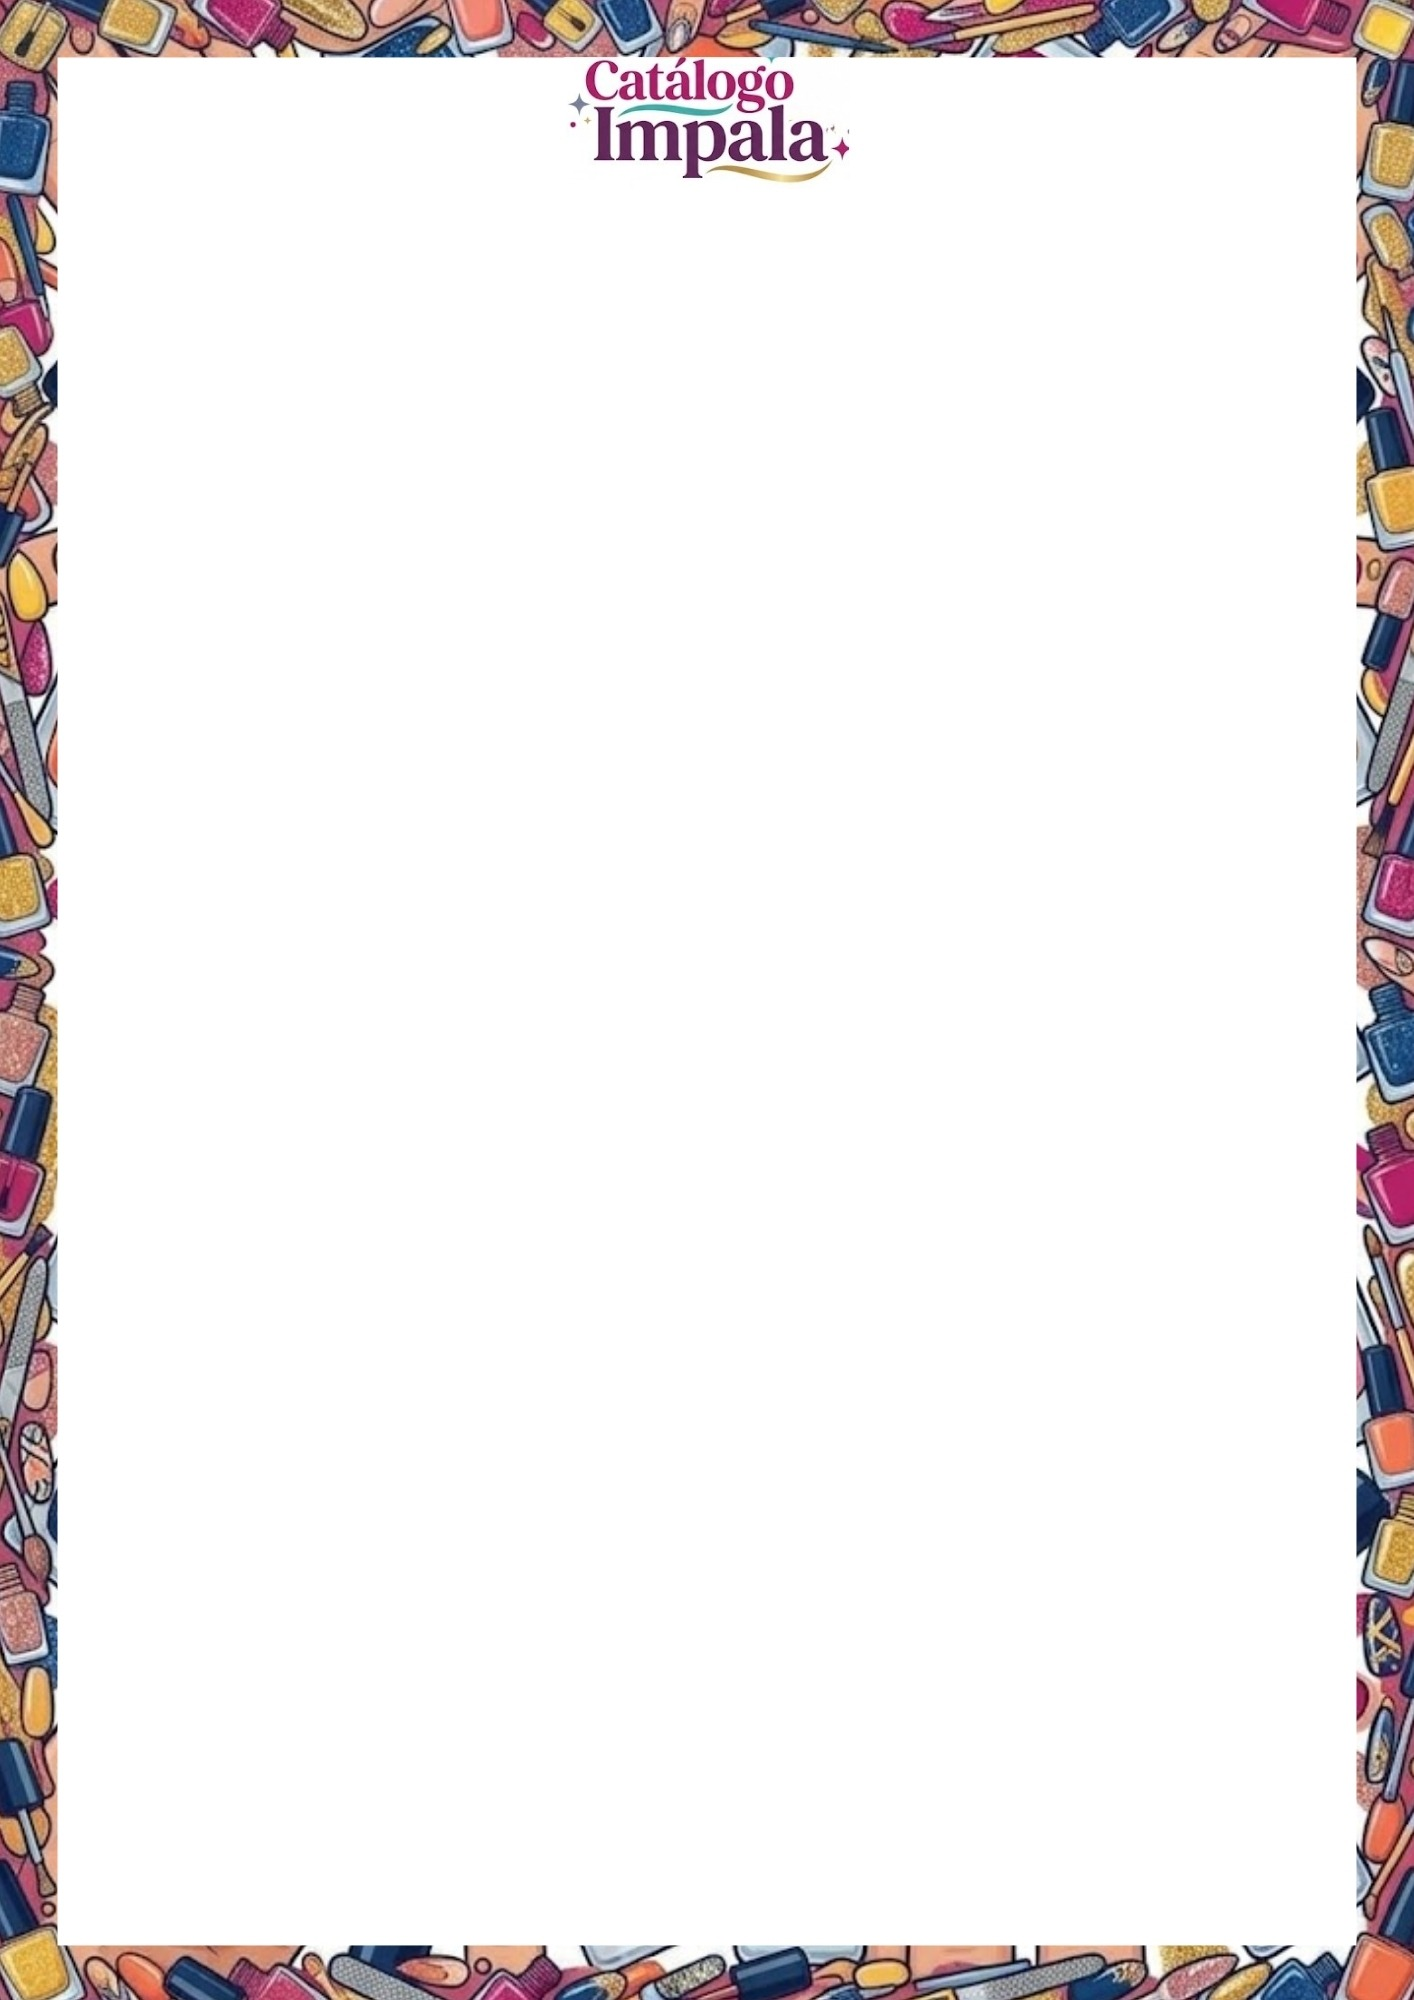
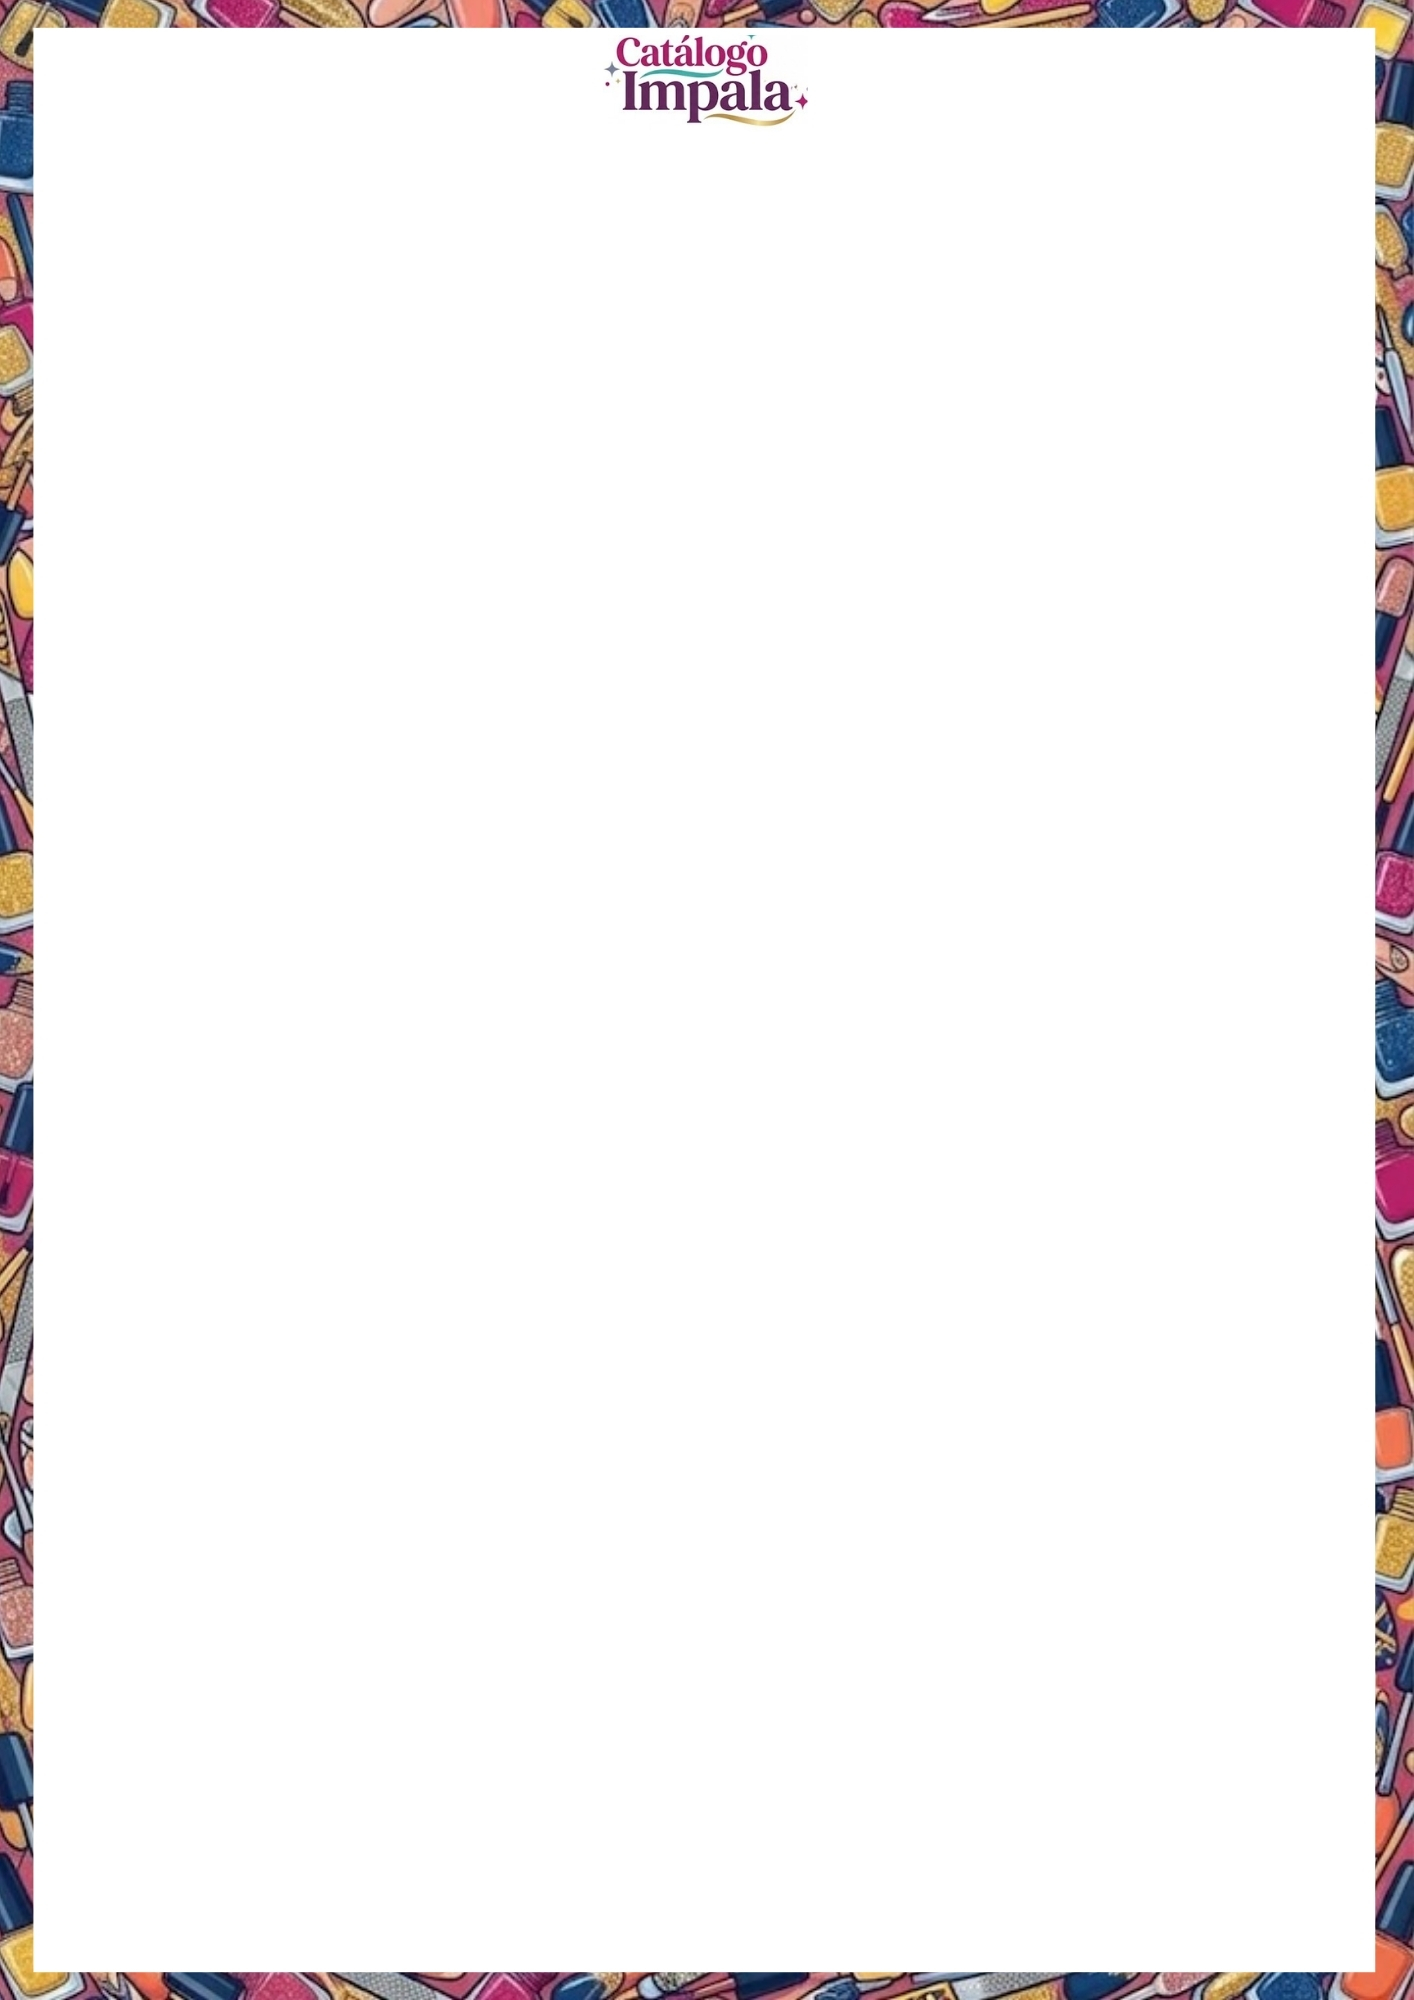
Add files via upload

Changed region(s): [[0.0, 0.0, 1.0, 1.0]]

diff --git a/exportar-carrinho.js b/exportar-carrinho.js
@@ -18,10 +18,13 @@ const EXPORT_TEMPLATE_LARGURA = 1414;
 const EXPORT_TEMPLATE_ALTURA = 2000;
 // Área em branco da imagem-modelo onde a grade de cartões pode ser
 // desenhada sem cobrir a moldura (medida direto no arquivo do Leonardo).
-const EXPORT_TEMPLATE_AREA = { esq: 60, dir: 1360, topo: 215, base: 1940 };
+// Atualizado pro molde novo, com o cabeçalho mais enxuto (logo termina
+// por volta de y:127, bem antes do y:190 do molde antigo) — é esse
+// espaço a mais que abriu lugar pra 4ª fileira de cartões.
+const EXPORT_TEMPLATE_AREA = { esq: 40, dir: 1368, topo: 140, base: 1960 };
 // Altura reservada no topo pra a foto + nome do vendedor, do lado
 // esquerdo da logo "Catálogo Impala" (mesma altura do texto da logo).
-const EXPORT_VENDEDOR_FOTO_Y_CENTRO = 125;
+const EXPORT_VENDEDOR_FOTO_Y_CENTRO = 80;
 const EXPORT_VENDEDOR_FOTO_DIAMETRO = 100;
 const EXPORT_VENDEDOR_INDENT = 22;
 // A altura de cada cartão da Imagem é calculada a partir do conteúdo
@@ -37,6 +40,11 @@ const EXPORT_GRADE_GAP_CODIGO_BADGE = 14;
 const EXPORT_GRADE_LINHA_ALTURA_NOME = 18;
 const EXPORT_GRADE_MAX_LINHAS_NOME = 2;
 const EXPORT_GRADE_ALTURA_BADGE = 52;
+// A foto do cartão fica um pouco mais baixa que larga (em vez de
+// quadrada) — é o "encolher o cartão" que abre espaço pra 4ª fileira
+// (16 itens por imagem em vez de 12), sem precisar mexer no tamanho dos
+// cartões nem no espaço entre eles.
+const EXPORT_GRADE_FATOR_ALTURA_FOTO = 0.93;
 // Cor da etiqueta de preço nos cartões — tom roxo/vinho do próprio logo
 // do Impala (puxado direto da palavra "Impala" na imagem-modelo), com o
 // mesmo brilho dourado suave que já era usado na foto do vendedor no app.
@@ -311,7 +319,7 @@ function exportarCalcularGradePng() {
   const alturaUtil = areaBase - areaTopo;
   const larguraCard = (larguraUtil - gutterH * (colunas - 1)) / colunas;
   const larguraFoto = larguraCard - padCard * 2;
-  const alturaImagem = larguraFoto; // foto quadrada
+  const alturaImagem = larguraFoto * EXPORT_GRADE_FATOR_ALTURA_FOTO;
 
   // Altura do cartão = só o que o conteúdo realmente precisa (foto + nome
   // de até 2 linhas + código + etiqueta de preço), igual ao PDF — em vez
@@ -336,23 +344,20 @@ function exportarCalcularGradePng() {
 // A Imagem (PNG) é uma folha de tamanho fixo (ao contrário do PDF, que só
 // usa quantas páginas precisar), então quando o carrinho tem menos itens
 // do que cabe na grade, sobra espaço em branco no final. Em vez de deixar
-// essa sobra toda embaixo, espalha ela como respiro extra entre as
-// fileiras (e centraliza o bloco inteiro verticalmente) — só pra Imagem,
-// o PDF continua do jeito que já era.
+// essa sobra toda embaixo (carrinho "encostado" no topo) ou esticar o
+// espaço entre as fileiras (o que deixava um vão enorme e esquisito entre
+// elas), o espaço entre as fileiras fica sempre igual, e só o bloco
+// inteiro é centralizado verticalmente — como um cartaz com poucos itens
+// bem no meio da folha, em vez de grudado em cima ou com buracos no meio.
+// Só pra Imagem — o PDF continua do jeito que já era.
 function exportarAjustarEspacamentoPng(grade, totalItens) {
   const { colunas, gutterV, alturaCard, areaTopo, alturaUtil } = grade;
   const linhasReais = Math.max(1, Math.ceil(totalItens / colunas));
 
-  let gutterVAjustado = gutterV;
-  if (linhasReais > 1) {
-    const gutterVCalculado = (alturaUtil - linhasReais * alturaCard) / (linhasReais - 1);
-    gutterVAjustado = Math.max(gutterV, gutterVCalculado);
-  }
-
-  const alturaBlocoGrade = linhasReais * alturaCard + (linhasReais - 1) * gutterVAjustado;
+  const alturaBlocoGrade = linhasReais * alturaCard + (linhasReais - 1) * gutterV;
   const areaTopoAjustada = areaTopo + Math.max(0, (alturaUtil - alturaBlocoGrade) / 2);
 
-  return { gutterV: gutterVAjustado, areaTopo: areaTopoAjustada };
+  return { gutterV, areaTopo: areaTopoAjustada };
 }
 
 // ---------- Botão "Gerar Imagem" ----------
